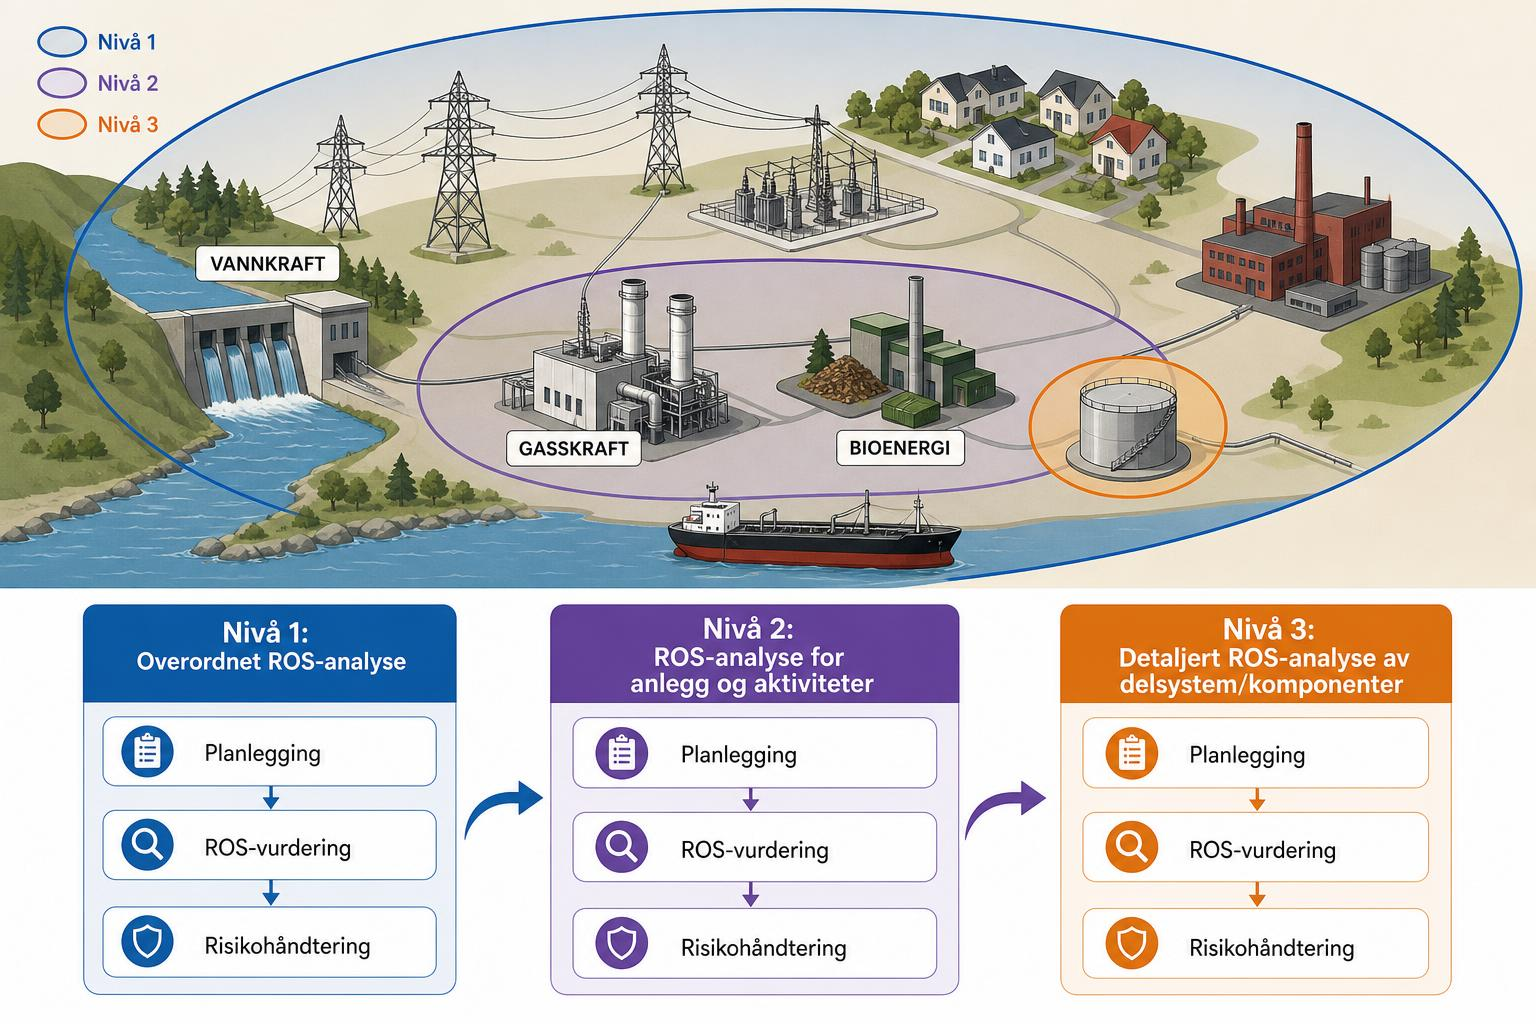
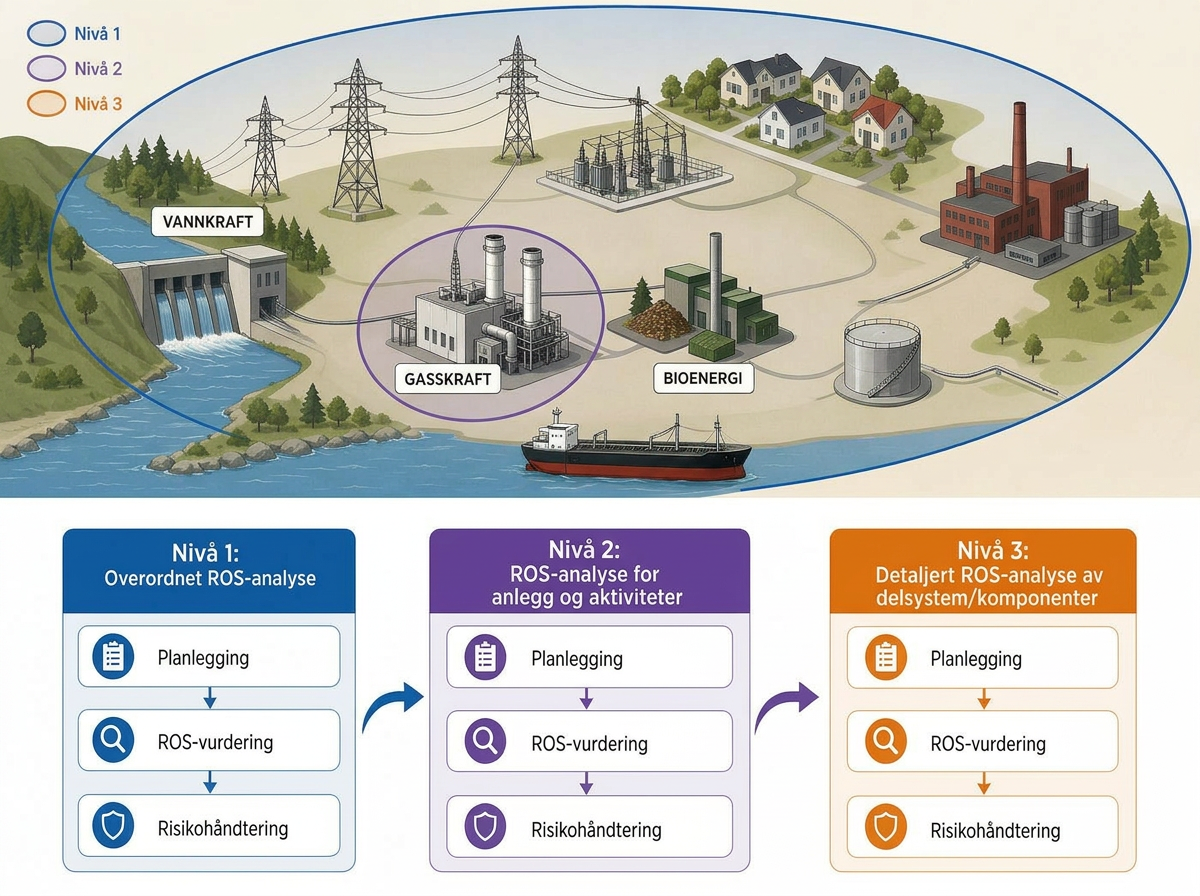
Changes

diff --git a/.lovable/plan.md b/.lovable/plan.md
@@ -1,45 +1,18 @@
-## Plan: Illustrasjon for detaljeringsnivå i ROS-analyse
+## Plan: Justere Nivå 2-sirkel i illustrasjonen
 
-Lage et nytt, profesjonelt illustrasjonsbilde som viser konseptet med de tre detaljeringsnivåene i en ROS-analyse, inspirert av det opplastede referansebildet, men med et renere og mer moderne uttrykk som passer applikasjonens visuelle stil.
+Den lilla Nivå 2-sirkelen dekker i dag både gasskraftverket og bioenergiverket. Den skal snevres inn slik at den kun omslutter gasskraftverket (med tilhørende skorsteiner/anlegg), mens bioenergiverket ligger utenfor sirkelen — kun innenfor den store blå Nivå 1-sonen.
 
-### Innhold i illustrasjonen
+### Fremgangsmåte
 
-Bildet skal inneholde to lag som i originalen:
-
-1. **Øvre del — systemoversikt med nivå-soner**
-   - Et stilisert energisystem-landskap (vannkraft, gasskraft, bioenergi, transformatorstasjoner, kraftlinjer, boliger, industri, tankskip)
-   - Tre konsentriske/overlappende soner som markerer omfanget for hvert nivå:
-     - Stor blå sone = Nivå 1 (hele systemet)
-     - Mindre lilla sone = Nivå 2 (et anlegg/aktivitet)
-     - Liten oransje sirkel = Nivå 3 (én komponent, f.eks. en tank)
-
-2. **Nedre del — tre prosess-spalter**
-   - Tre kolonner med overskrifter:
-     - **Nivå 1:** Overordnet ROS-analyse (blå)
-     - **Nivå 2:** ROS-analyse for anlegg og aktiviteter (lilla)
-     - **Nivå 3:** Detaljert ROS-analyse av delsystem/komponenter (oransje)
-   - Hver kolonne med tre bokser i rekkefølge: **Planlegging → ROS-vurdering → Risikohåndtering**
-   - Piler mellom kolonnene som viser progresjon fra grovt til detaljert nivå
-
-### Visuell stil
-
-- Flat, moderne vektor-look (ikke tegneserieaktig som originalen)
-- Rene linjer, mild fargepalett som matcher appens profesjonelle uttrykk
-- Tydelige fargekoder for nivåene: blå/lilla/oransje (samme som kortene i 2.2-seksjonen)
-- Norsk tekst på alle etiketter
-- 16:9 format, høy oppløsning, lesbar når den vises i full bredde i metodeseksjonen
-
-### Implementering
-
-1. Generere bildet med `imagegen` (premium-kvalitet pga. norsk tekst som må være leselig)
-2. Lagre som `src/assets/ros-detaljeringsnivaa.jpg`
-3. Importere bildet i `src/pages/RosAnalyse.tsx` og vise det i input-seksjonen for "Detaljeringsnivå" (under select-feltet) som visuell forklaring
-4. Importere samme bilde i `src/components/ros/RosPreview.tsx` og vise det i kap. 2.2 over de tre valgkortene
-5. Legge bildet inn i Word-eksport (`src/lib/ros-word-export.ts`) i 2.2-blokken via `ImageRun`
+1. Bruke `imagegen--edit_image` på eksisterende `src/assets/ros-detaljeringsnivaa.jpg` med en målrettet prompt som:
+   - Krymper den lilla ovalen til kun å omslutte gasskraftverket
+   - Flytter bioenergiverket utenfor den lilla sirkelen (fortsatt inne i blå)
+   - Beholder alt annet uendret (landskap, øvrige anlegg, tre nivå-kolonner under, tekst, farger)
+2. Overskrive samme fil slik at både input-skjema, preview (kap. 2.2) og Word-eksport automatisk bruker det oppdaterte bildet.
+3. Visuell QA: åpne resultatet og verifisere at lilla sirkel kun dekker gasskraftverket og at bioenergi tydelig er utenfor. Hvis ikke, kjøre én ny edit-runde.
 
 ### Filer som endres
 
-- Ny: `src/assets/ros-detaljeringsnivaa.jpg`
-- `src/pages/RosAnalyse.tsx` (vise bildet i input)
-- `src/components/ros/RosPreview.tsx` (vise bildet i preview-kap. 2.2)
-- `src/lib/ros-word-export.ts` (inkludere bildet i Word-eksport)
+- `src/assets/ros-detaljeringsnivaa.jpg` (overskrives)
+
+Ingen kodeendringer nødvendig.
